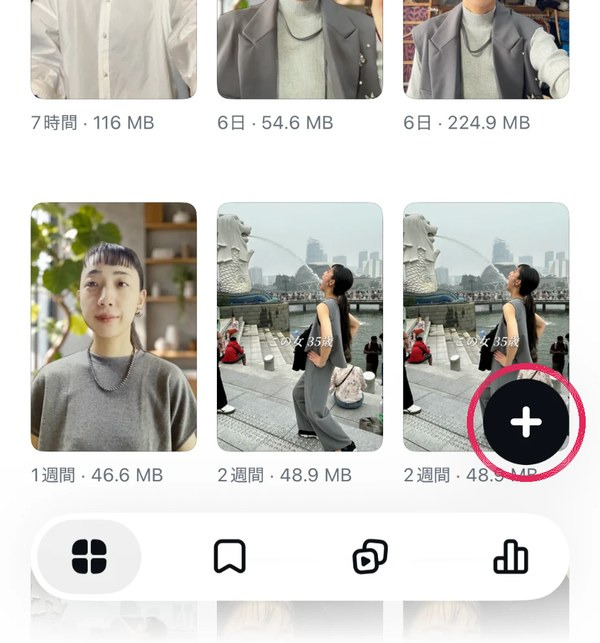
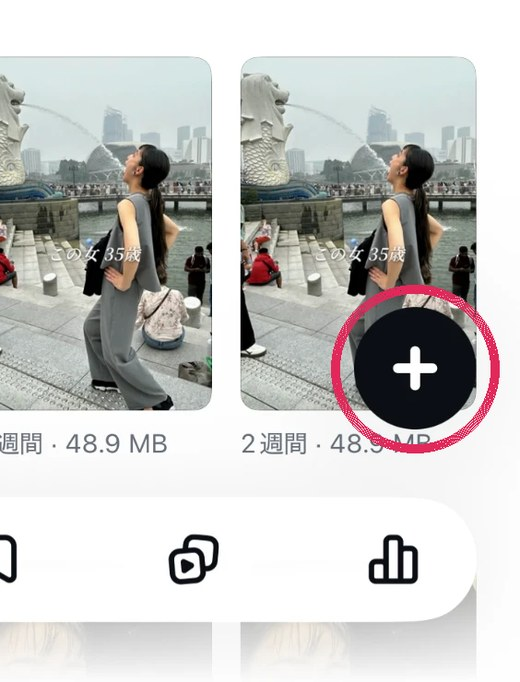
Tighter crops

diff --git a/index.html b/index.html
@@ -156,9 +156,9 @@ footer small{display:block;font-size:13px;line-height:1.8;margin-top:8px;color:#
     <p>Editsを開いたら、＋を押します。続けてカメラを選び、スマホで撮影できる画面を開きます。</p>
     <figure class="icon"><img src="media/edits-00-icon.jpg" alt="Editsのアプリのアイコン" width="303" height="341" loading="lazy"><figcaption>このアイコンのアプリを開きます。</figcaption></figure>
     <div class="rows">
-      <div class="row"><img src="media/edits-01-plus.jpg" alt="＋を押すの画面" width="600" height="643" loading="lazy"><p><b>1 ＋を押す</b>右下の＋をタップします。</p></div>
-      <div class="row"><img src="media/edits-02-camera.jpg" alt="カメラを選ぶの画面" width="600" height="531" loading="lazy"><p><b>2 カメラを選ぶ</b>出てきたメニューの「カメラ」をタップします。</p></div>
-      <div class="row"><img src="media/edits-03-teleprompter.jpg" alt="台本のアイコンを押すの画面" width="600" height="455" loading="lazy"><p><b>3 台本のアイコンを押す</b>左にあるテレプロンプターのアイコンをタップします。</p></div>
+      <div class="row"><img src="media/edits-01-plus.jpg" alt="＋を押すの画面" width="520" height="682" loading="lazy"><p><b>1 ＋を押す</b>右下の＋をタップします。</p></div>
+      <div class="row"><img src="media/edits-02-camera.jpg" alt="カメラを選ぶの画面" width="520" height="419" loading="lazy"><p><b>2 カメラを選ぶ</b>出てきたメニューの「カメラ」をタップします。</p></div>
+      <div class="row"><img src="media/edits-03-teleprompter.jpg" alt="台本のアイコンを押すの画面" width="520" height="654" loading="lazy"><p><b>3 台本のアイコンを押す</b>左にあるテレプロンプターのアイコンをタップします。</p></div>
     </div>
   </div>
 </section>
